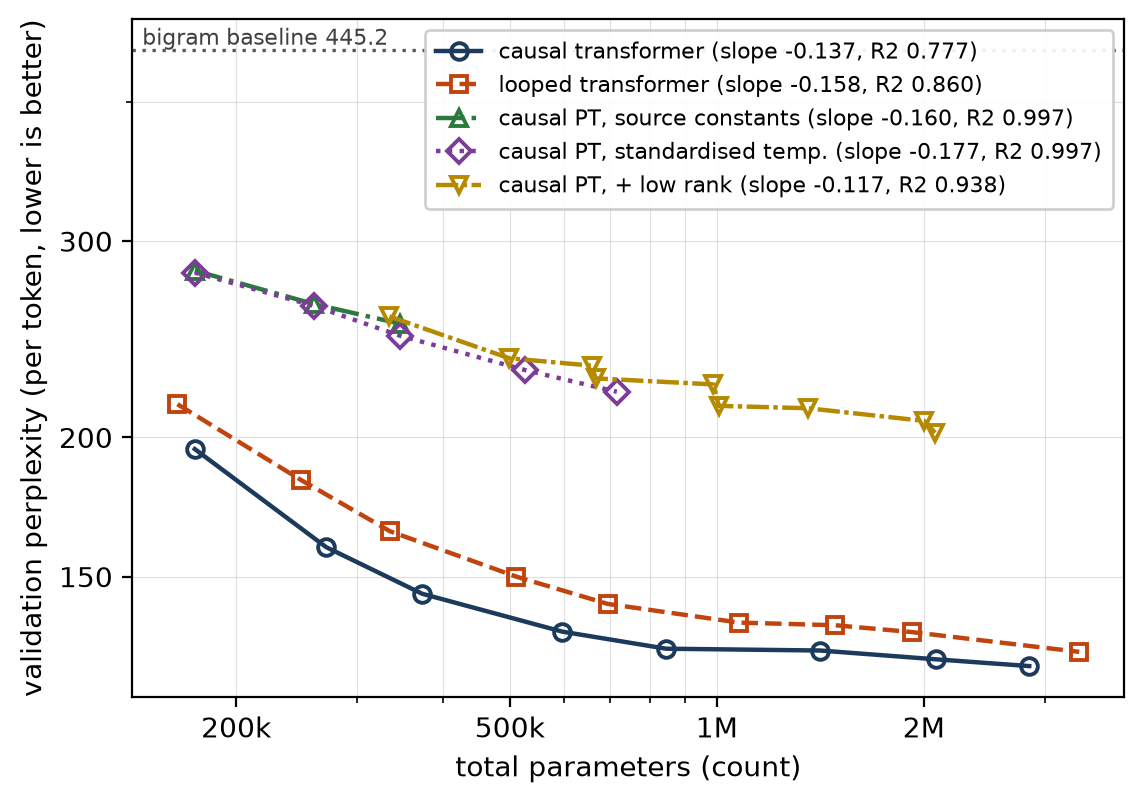
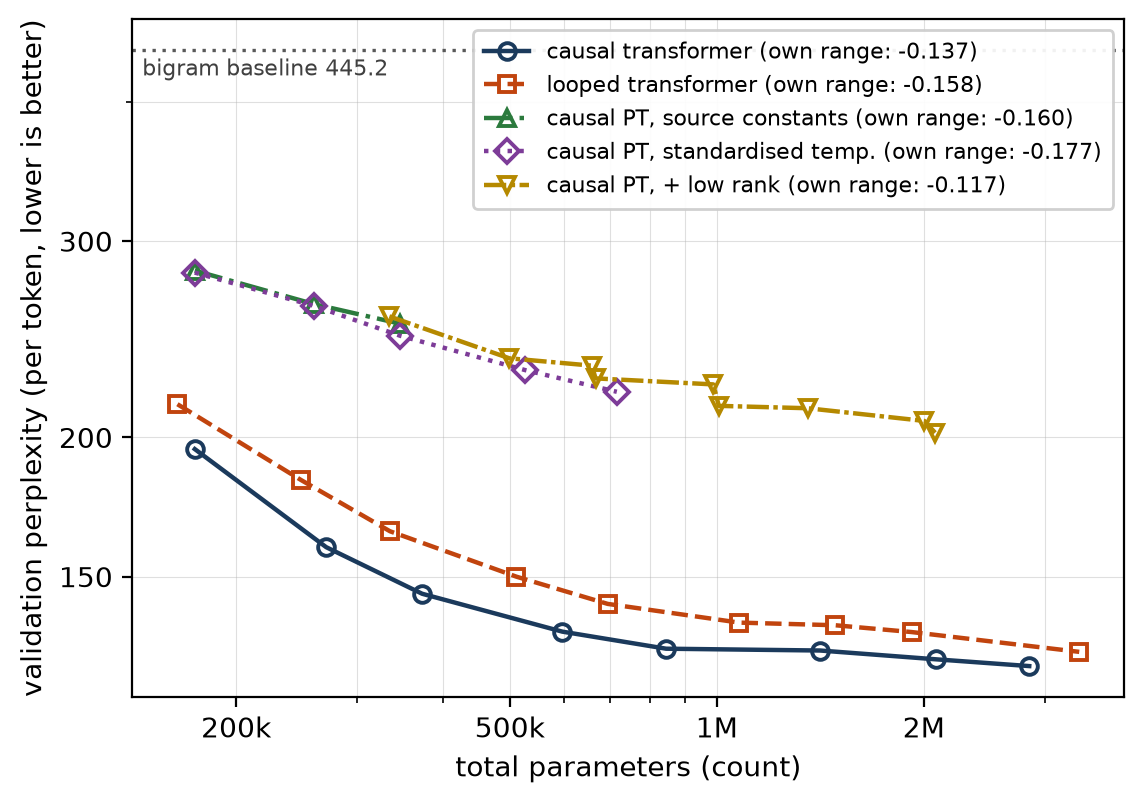
v1.16.1 [fix]: the scaling figure's legend advertised the exponents the text withdraws
Figure 3's legend read 'slope -0.086', 'slope -0.087', 'slope -0.090' for curves measured over
ranges that differ by more than an order of magnitude -- precisely the comparison the section
beside it exists to refuse. A legend is read before the text is, so the legend now says 'own
range: -0.086' and the caption points at the shared-window exponents instead of describing
these as 'the fitted power-law exponent'.

Two layout consequences, both handled: the qualifier made the entries long enough to overlap
the 'bigram baseline 445.2' annotation, so R^2 comes out of the legend and goes into the
three-way table where it sits beside the point count, and the annotation moves below its line.

Changed region(s): [[0.3671, 0.0311, 0.9484, 0.2802], [0.1224, 0.0311, 0.3365, 0.0934]]

diff --git a/paper/sections/04_experiments.tex b/paper/sections/04_experiments.tex
@@ -160,8 +160,10 @@ from the run JSONs by \texttt{experiments/make\_report.py}; no number in it is t
 \includegraphics[width=\columnwidth]{figures/fig_scaling_total.png}
 \caption{Scaling on PTB: validation perplexity against non-embedding parameters (top) and total
 parameters (bottom), log--log. Each point is the better of two learning rates at a 15{,}000-step
-budget with the checkpoint selected on validation; the legend carries the fitted power-law
-exponent. The dotted line is the add-one bigram (445.2), which is the reference that separates ``learned
+budget with the checkpoint selected on validation. The legend's slopes are each fitted over
+\emph{that curve's own} measured range, and those ranges differ by more than an order of
+magnitude, so they are not comparable with one another: the comparable exponents, fitted on
+shared windows, are in \Cref{sec:exp-scaling} and \Cref{tab:exponents-full}. The dotted line is the add-one bigram (445.2), which is the reference that separates ``learned
 something beyond the previous word'' from ``did not'' --- the unigram at 688.8 lies above every
 curve and separates nothing. The two panels are not interchangeable: with tying forced, almost all
 of the causal PT's parameters are its word--label factor.}

diff --git a/paper/figures/table_globalhead.tex b/paper/figures/table_globalhead.tex
@@ -5,12 +5,14 @@ $d$ & $m$ & init sd & in $L_2$ & dist. & $n$ & val ppl & $H(Q_g)/\max$ \\
 \midrule
 32 & 0 & --- & yes & normal & 3 & 243.2 $\pm$ 5.3 & 0.000 \\
 32 & 64 & 0.02 & no & normal & 3 & 249.3 $\pm$ 1.9 & 0.992 \\
-32 & 64 & 0.02 & yes & normal & 2 & 243.6 $\pm$ 7.2 & 1.000 \\
+32 & 64 & 0.02 & yes & normal & 3 & 242.5 $\pm$ 5.4 & 1.000 \\
 32 & 64 & 0.1 & no & normal & 3 & 254.1 $\pm$ 4.4 & 0.976 \\
 32 & 64 & 0.1 & yes & normal & 3 & 246.6 $\pm$ 9.8 & 1.000 \\
 32 & 64 & 0.5 & no & normal & 3 & 248.4 $\pm$ 3.5 & 0.942 \\
 32 & 64 & 0.5 & yes & normal & 2 & 253.2 $\pm$ 12.2 & 0.978 \\
-64 & 0 & --- & yes & normal & 1 & 216.8 $\pm$ 0.0 & 0.000 \\
+64 & 0 & --- & yes & normal & 2 & 460.5 $\pm$ 344.6 & 0.000 \\
+64 & 64 & 0.02 & yes & normal & 1 & 233.3 $\pm$ 0.0 & 1.000 \\
+64 & 64 & 0.1 & no & normal & 1 & 227.7 $\pm$ 0.0 & 0.938 \\
 64 & 64 & 0.1 & yes & normal & 1 & 235.2 $\pm$ 0.0 & 1.000 \\
 \bottomrule
 \end{tabular}

diff --git a/paper/figures/table_exponents_trio.tex b/paper/figures/table_exponents_trio.tex
@@ -1,10 +1,10 @@
 % Generated by `python -m experiments.make_report`. Do not edit by hand.
-\begin{tabular}{@{}lrrr@{}}
+\begin{tabular}{@{}lrrrr@{}}
 \toprule
- & $n$ & exponent & ppl across the range \\
+ & $n$ & exp. & $R^2$ & ppl across it \\
 \midrule
-transformer & 4 & $-0.175$ & $189 \to 124$ \\
-looped & 3 & $-0.068$ & $157 \to 133$ \\
-PT low rank & 8 & $-0.045$ & $226 \to 203$ \\
+transformer & 4 & $-0.175$ & 0.95 & $189 \to 124$ \\
+looped & 3 & $-0.068$ & 0.96 & $157 \to 133$ \\
+PT low rank & 8 & $-0.045$ & 0.93 & $226 \to 203$ \\
 \bottomrule
 \end{tabular}

diff --git a/paper/figures/table_switches.tex b/paper/figures/table_switches.tex
@@ -8,7 +8,7 @@ attn\_query\_proj & 131.1 & +1.9 & 369.9 & +25.6 \\
 attn\_value & 128.7 & -0.6 & 358.7 & +36.8 \\
 ffn & 144.4 & +15.1 & 530.7 & -135.3 \\
 norm & 128.6 & -0.7 & 501.9 & -106.4 \\
-position & 128.9 & -0.4 & 430.1 & -34.6 \\
+position & 128.3 & -1.0 & 430.1 & -34.6 \\
 readout & 686.8 & +557.6 & 537.5 & -142.0 \\
 residual & 136.7 & +7.5 & 687.1 & -291.6 \\
 state & 693.5 & +564.3 & 686.8 & -291.3 \\
